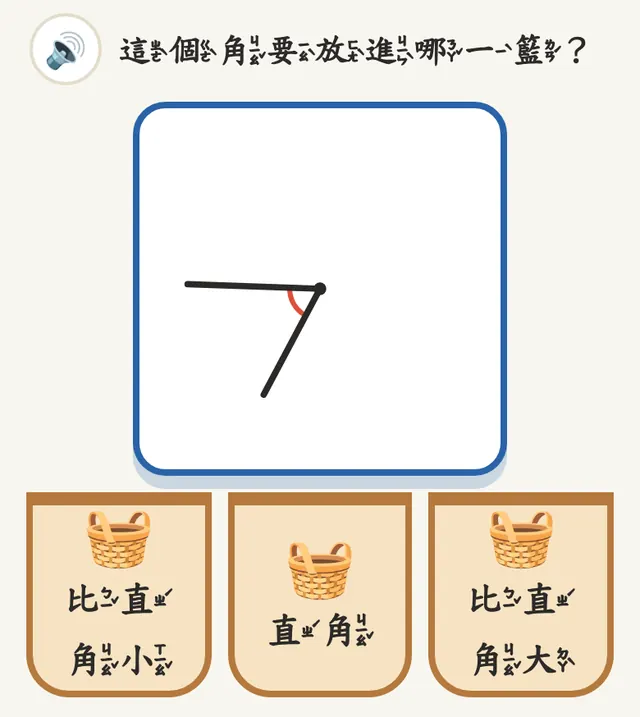
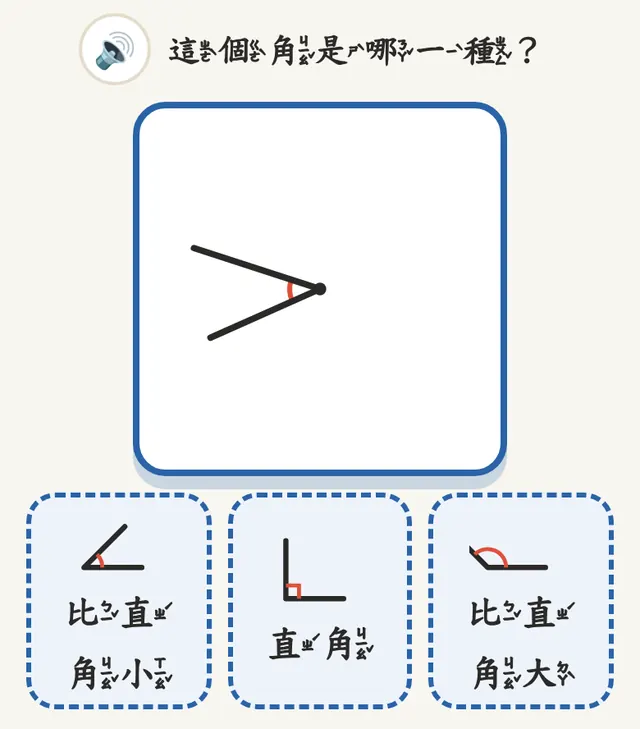
分類遊戲拿掉籃子圖示：直角分類的格子畫出那一種角，奇偶數只留文字
Claude-Session: https://claude.ai/code/session_01WujgzrJXU51jfSr52ba2Qy

diff --git a/js/rounds.js b/js/rounds.js
@@ -2,7 +2,7 @@
  * 一局 10 題的小遊戲（不限時間）
  *   quiz  ⭕❌ 快答／🧩 選答案：點大大的選項（答得快多一點分）
  *   tap   點圖：📏 數線跳跳（點刻度，青蛙跳過去）、🔍 找找看（點圖上的線）
- *   sort  🗑 分類丟丟樂：卡片拖進（或點）正確的籃子
+ *   sort  🗑 分類丟丟樂：卡片拖進（或點）正確的格子
  *   paint 🍕 塗色：點一塊塗一塊，塗好按確定
  *   fill  📏 自己填：用數字鍵盤填格子
  * 答對 ⭕、答錯 ❌ 並說明，這題等一下會再出現。星星看答錯幾題。
@@ -31,8 +31,8 @@
       { img: IMG + 'quiz-2.webp', text: '答對會出現圈圈，答得越快分數越多；答錯會出現叉叉，告訴你為什麼。' },
       END_SLIDE],
     sort: [
-      { img: IMG + 'sort-1.webp', text: '卡片掉下來了！看看它應該放進哪一個籃子。' },
-      { img: IMG + 'sort-2.webp', text: '把卡片拖到籃子裡，或是直接點那個籃子。' },
+      { img: IMG + 'sort-1.webp', text: '卡片掉下來了！看看它是哪一種。' },
+      { img: IMG + 'sort-2.webp', text: '把卡片拖到正確的格子裡，或是直接點那個格子。' },
       END_SLIDE],
     paint: [
       { img: IMG + 'paint-1.webp', text: '看題目要塗幾分之幾。分母是平分成幾份，分子是要塗幾份。' },
@@ -96,7 +96,7 @@
     } else if (k === 'sort') {
       $('r-visual').innerHTML = '<div class="sort-card" id="sort-card">' + q.card + '</div>';
       $('r-opts').innerHTML = '<div class="bins bins-' + q.bins.length + '">' + q.bins.map(function (b, i) {
-        return '<button class="bin" type="button" data-bin="' + i + '"><span class="bin-ic">🧺</span><span>' + esc(b) + '</span></button>'; }).join('') + '</div>';
+        return '<button class="bin" type="button" data-bin="' + i + '">' + (q.binIcons ? '<span class="bin-ic">' + q.binIcons[i] + '</span>' : '') + '<span>' + esc(b) + '</span></button>'; }).join('') + '</div>';
       dragSetup();
     } else if (k === 'paint') {
       $('r-visual').innerHTML = q.svg + '<p class="paint-count" id="paint-count">塗了 0 份</p>';
@@ -160,7 +160,7 @@
     })(t0);
   }
 
-  /* ---------- sort：拖卡片或點籃子 ---------- */
+  /* ---------- sort：拖卡片或點格子 ---------- */
   function dragSetup() {
     var card = $('sort-card'), sx, sy, dragging = false;
     card.addEventListener('pointerdown', function (e) {

diff --git a/js/questions.js b/js/questions.js
@@ -435,9 +435,16 @@
     return { kind: kind, deg: deg, svg: svgOpen(260, 260, '一個角') + angleSVG(130, 130, deg, rot, 105, 95, '') + '</svg>' };
   }
   var ANGLE_BINS = ['比直角小', '直角', '比直角大'];
+  /* 分類格子上畫一個那一種的角（直角加上直角記號），讓孩子拿卡片來比 */
+  function binAngle(deg, mark) {
+    var r = deg * Math.PI / 180, x = 14 + Math.cos(r) * 44, y = 52 - Math.sin(r) * 44;
+    return '<svg viewBox="0 0 80 60" width="64" height="48" aria-hidden="true"><path d="M58 52 L14 52 L' + x.toFixed(1) + ' ' + y.toFixed(1) + '" fill="none" stroke="#2B2A28" stroke-width="4" stroke-linecap="round" stroke-linejoin="round"/>' +
+      (mark ? '<path d="M14 42 L24 42 L24 52" fill="none" stroke="#E0503A" stroke-width="3"/>' : '<path d="M28 52 A14 14 0 0 0 ' + (14 + Math.cos(r) * 14).toFixed(1) + ' ' + (52 - Math.sin(r) * 14).toFixed(1) + '" fill="none" stroke="#E0503A" stroke-width="3"/>') + '</svg>';
+  }
+  var ANGLE_BIN_ICONS = [binAngle(45), binAngle(90, true), binAngle(135)];
   function genAngleSort() { // 5-2 🗑 分類
     var c = angleCard(), ans = ['直角', '比直角大', '比直角小'][c.kind];
-    return { kind: 'sort', text: '這個角要放進哪一籃？', say: '這個角是直角、比直角大，還是比直角小？', card: c.svg, bins: ANGLE_BINS,
+    return { kind: 'sort', text: '這個角是哪一種？', say: '這個角是直角、比直角大，還是比直角小？', card: c.svg, bins: ANGLE_BINS, binIcons: ANGLE_BIN_ICONS,
       answer: ans, review: '一個 ' + c.deg + ' 度的角',
       hint: '拿三角板的直角來比：剛好疊在一起是直角；張開比較多是比直角大。',
       explain: '<p class="ex-line">' + c.deg + ' 度的角' + (c.kind === 0 ? '剛好是直角' : c.kind === 1 ? '張開得比直角大' : '張開得比直角小') + '，放進「<b>' + ans + '</b>」。</p>' };

diff --git a/style.css b/style.css
@@ -356,10 +356,11 @@ line.hit.wrong { stroke: rgba(217, 72, 59, .4); }
 .bins { display: grid; gap: 10px; }
 .bins-2 { grid-template-columns: 1fr 1fr; }
 .bins-3 { grid-template-columns: 1fr 1fr 1fr; }
-.bin { min-height: 104px; border-radius: 0 0 26px 26px; border: 4px solid #B5793D; border-top-width: 8px; background: #F7E3C3; display: flex; flex-direction: column; align-items: center; justify-content: center; gap: 2px; font-weight: 700; font-size: 1.15em; }
-.bin-ic { font-size: 1.6em; line-height: 1; }
-.bin.right { background: var(--good); border-color: #1E6640; color: #fff; }
-.bin.wrong { background: var(--bad); border-color: #9E2F25; color: #fff; }
+.bin { min-height: 96px; border-radius: 18px; border: 3px dashed var(--math); background: #EEF3FA; display: flex; flex-direction: column; align-items: center; justify-content: center; gap: 2px; font-weight: 700; font-size: 1.15em; }
+.bin-ic { line-height: 0; }
+.bin.right { background: var(--good); border: 3px solid #1E6640; color: #fff; }
+.bin.wrong { background: var(--bad); border: 3px solid #9E2F25; color: #fff; }
+.bin.right svg path, .bin.wrong svg path { stroke: #fff; }
 /* 塗色 */
 .part { cursor: pointer; }
 .part:hover { opacity: .85; }

diff --git a/README.md b/README.md
@@ -53,7 +53,7 @@
 **一局 10 題的小遊戲**（不限時間；答錯 ⭕❌ 說明後再出現；星星看答錯幾題）
 - ⭕❌ 快答／🧩 選答案：點大大的選項，答得快多一點分。
 - 📏 數線跳跳：點刻度，青蛙跳過去。🔍 找找看：在圖上點出半徑、直徑。
-- 🗑 分類丟丟樂：卡片拖進（或點）正確的籃子。
+- 🗑 分類丟丟樂：卡片拖進（或點）正確的格子（直角分類的格子上畫著那一種角）。
 - 🍕 塗色：點一塊塗一塊，塗好按確定。
 - 📏 自己填：看尺，用數字鍵盤填幾公分幾毫米。
 
